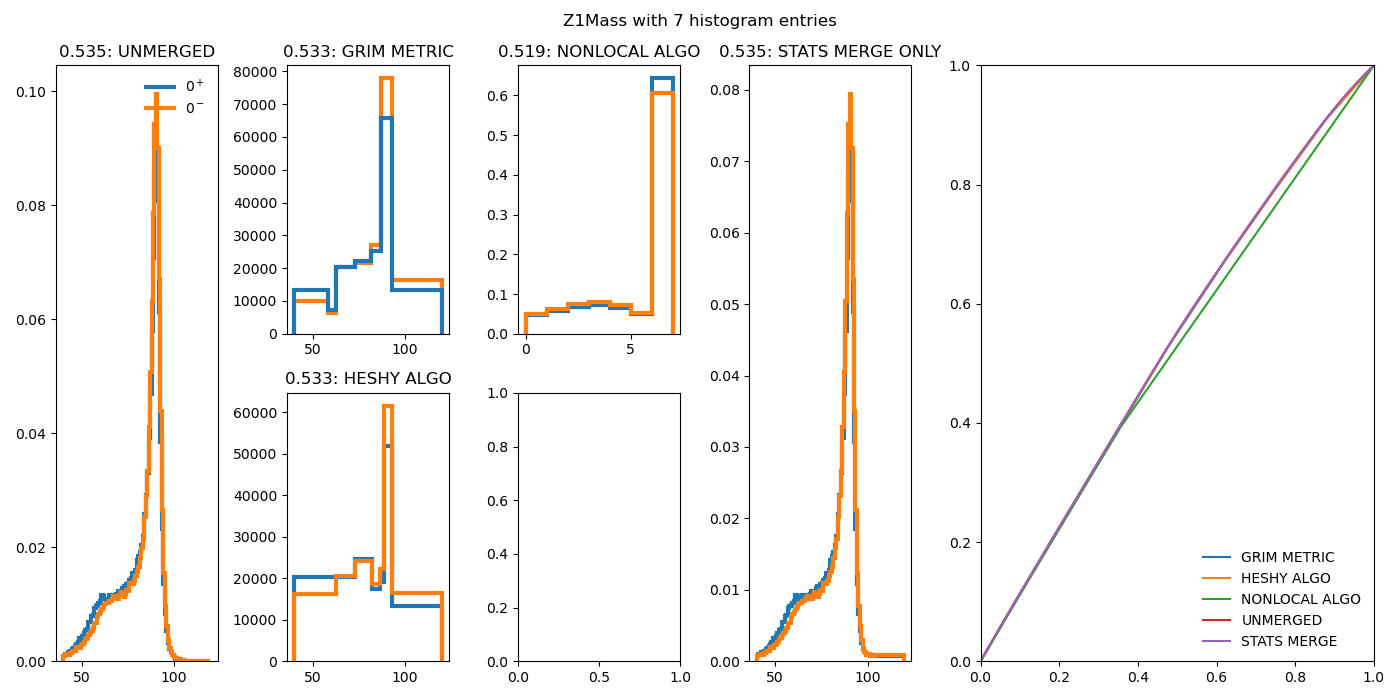
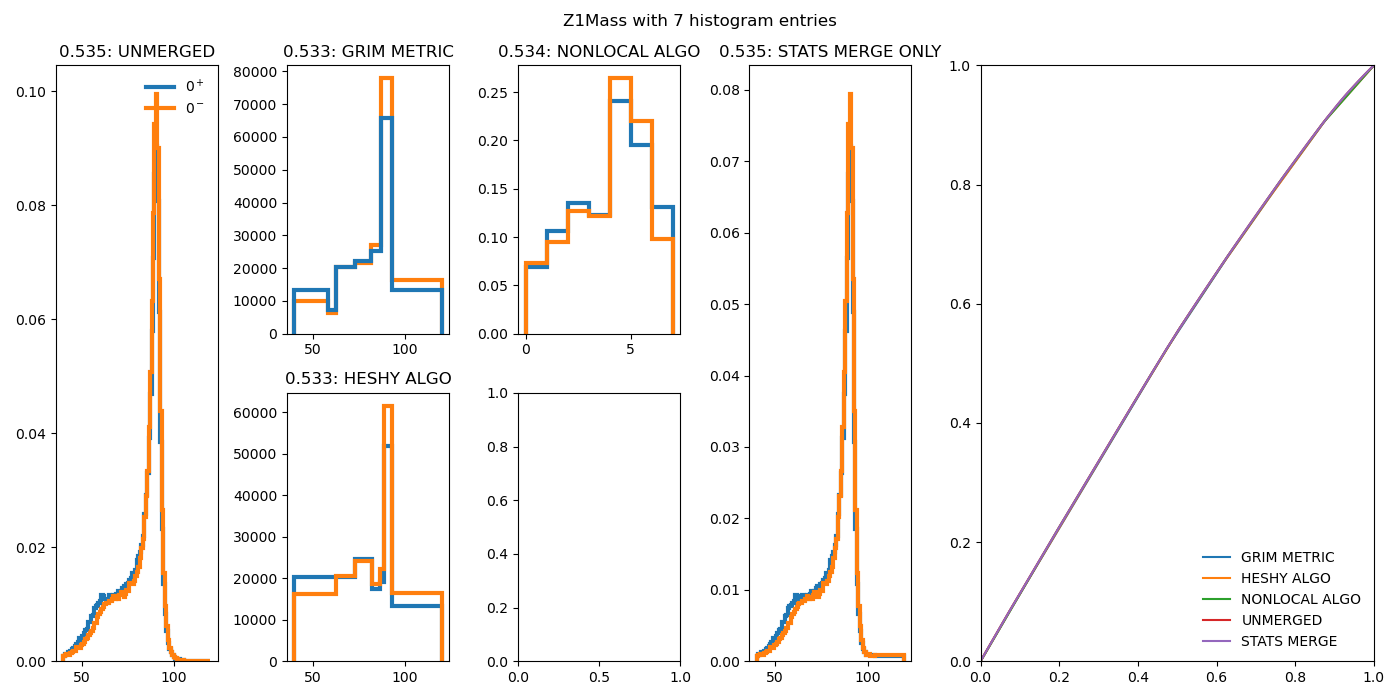
regular backup

diff --git a/brunelle_merger/brunelle_merger.py b/brunelle_merger/brunelle_merger.py
@@ -3,6 +3,7 @@ import matplotlib.pyplot as plt
 import mplhep as hep
 import matplotlib as mpl
 import histogram_helpers as h
+import tqdm
 
 # plt.style.use(hep.style.ROOT)
 # mpl.rcParams['axes.labelsize'] = 40
@@ -364,7 +365,6 @@ class Grim_Brunelle_with_standard_model(Grim_Brunelle_merger):
         else:
             return numerator/(2*denomenator)
 
-
 class Grim_Brunelle_nonlocal(Grim_Brunelle_merger):
     def __init__(self, bins, *counts, stats_check=True, subtraction_metric=True, weights=None) -> None:
         """This class is the base object for bin merging. 
@@ -453,6 +453,9 @@ class Grim_Brunelle_nonlocal(Grim_Brunelle_merger):
                 if track:
                     current_iteration_tracker[k] = tuple([n])
                 merged_counts[:,k] = self.counts_to_merge[:,n]
+                self.scores[:,k] = self.scores[:,n]
+                self.scores[k] = self.scores[n]
+                
                 k += 1
         
         if track:
@@ -460,6 +463,11 @@ class Grim_Brunelle_nonlocal(Grim_Brunelle_merger):
         self.things_to_recalculate = tuple([k])
         
         merged_counts[:,k] = self.counts_to_merge[:,i] + self.counts_to_merge[:,j] #shove everything into the final bin
+        
+        for wipe in range(k, len(self.scores)):
+            self.scores[wipe] = np.inf
+            self.scores[:,wipe] = np.inf
+            
         self.n_items -= 1
         
         self.counts_to_merge = merged_counts
@@ -484,14 +492,20 @@ class Grim_Brunelle_nonlocal(Grim_Brunelle_merger):
         # print("USING INDICES:", indices, "With BRUTE_FORCE=", brute_force)
         smallest_distance = (np.inf, None, None)
         for i in range(self.n_items):
-            for j in range(i):
-                
+            for j in self.things_to_recalculate:
                 if i == j:
-                    self.scores[i][j] == np.inf
+                    self.scores[i][j] = np.inf
+                    # print("setting??", self.scores[i][j])
+                    continue
                 
-                temp_dist = self.__MLM__(i, j)
-                if temp_dist < smallest_distance[0]:
-                    smallest_distance = (temp_dist, i, j)
+                self.scores[i][j] = self.__MLM__(i, j)
+                # if temp_dist < smallest_distance[0]:
+                    # smallest_distance = (temp_dist, i, j)
+        smallest_distance_index = np.unravel_index(self.scores.argmin(), self.scores.shape)
+        smallest_distance = self.scores[smallest_distance_index], *smallest_distance_index
+        
+        # print("DIST:", smallest_distance)
+        # print(self.scores)
         
         if not np.isfinite(smallest_distance[0]):
             raise ValueError("Distance function has produced nan/inf at some point with value" + str(smallest_distance[0]))
@@ -515,9 +529,13 @@ class Grim_Brunelle_nonlocal(Grim_Brunelle_merger):
         """
         
         # print("RUNNING NONLOCAL", self.n_items, target_bin_number)
+        # print("n items:", self.n_items)
+        pbar = tqdm.tqdm(total=self.n_items - target_bin_number)    
         while self.n_items > target_bin_number:
             distance, i, j = self.__closest_pair__()
             self.__merge__(i,j, track)
+            pbar.update(1)
+            # print()
     
         return self.counts_to_merge, np.array(range(self.n_items+1))
     
@@ -528,13 +546,15 @@ class Grim_Brunelle_nonlocal(Grim_Brunelle_merger):
         plt.close('all')
         centers = (self.post_stats_merge_bins[1:] + self.post_stats_merge_bins[:-1])/2
         
+        mapping = {}
         color_wheel = iter(plt.cm.rainbow(np.linspace(0, 1, self.n_items)))
         for bin_index in self.tracker[-1].keys():
             indices = self.__trace__(bin_index, len(self.tracker) - 1)
+            mapping[bin_index] = indices
             c = next(color_wheel)
             for index in indices:
                 plt.scatter(centers[index], self.merged_counts[0][index], color=c, marker='o', s=50)
-                plt.scatter(centers[index], self.merged_counts[1][index], color=c, marker='P', s=50)
+                plt.scatter(centers[index], self.merged_counts[1][index], color=c, marker='X', s=50)
         
         if xlabel == None:
             "Distribution Clustering"
@@ -545,7 +565,9 @@ class Grim_Brunelle_nonlocal(Grim_Brunelle_merger):
         plt.tight_layout()
         if fname:
             plt.savefig(fname + '.png')
-        plt.show()
+            plt.show()
+        plt.close()
+        return mapping
     
 class Grim_Brunelle_nonlocal_with_standard_model(Grim_Brunelle_nonlocal):
     def __init__(self, bins, *counts, stats_check=True, subtraction_metric=True, weights=None) -> None:

diff --git a/tester.py b/tester.py
@@ -1,5 +1,7 @@
 import numpy as np
+import matplotlib.colors as colors
 import matplotlib.pyplot as plt
+import matplotlib.patches
 import scipy.stats as sp
 import mplhep as hep
 import pickle
@@ -13,6 +15,7 @@ sys.path.append('brunelle_merger/')
 
 import brunelle_merger as bm
 import SUPER_ROC_Curves as ROC
+import histogram_helpers as h
 import multidimensionaldiscriminant.optimizeroc as optimizeroc #clone an instance of multidimensional roc in your area
 
 def earth_mover(counts_1, counts_2):
@@ -308,12 +311,77 @@ if __name__ == "__main__": #TEST DATA!!
         counts_ps[n], _ = np.histogram(ps_data[i], edges[n], density=True)
     
     
+    Z1Z2_counts_sm, *Z1Z2_edges = np.histogram2d(sm_data['Z1Mass'], sm_data['Z2Mass'], 10)
+    Z1Z2_counts_ps, *_ = np.histogram2d(ps_data['Z1Mass'], ps_data['Z2Mass'], Z1Z2_edges)
+    sm_unroll = h.ND_histogram(Z1Z2_counts_sm.copy(), Z1Z2_edges.copy())
+    sm_unroll.unroll()
     
-    for stat_check in [True, False]:
-        for subtraction_metric in [True]: #division metric WILL nan out
-            for n_bins in [5,7,10]:
-                run_test(stat_check, n_bins, subtraction_metric)
-                print()
+    ps_unroll = h.ND_histogram(Z1Z2_counts_ps.copy(), Z1Z2_edges.copy())
+    ps_unroll.unroll()
+    dim_bins = bm.Grim_Brunelle_nonlocal(sm_unroll.unrolled_bins, sm_unroll.unrolled_counts, ps_unroll.unrolled_counts, stats_check=False, subtraction_metric=True)
+    dim_bins.run(10, track=True)
+    mapping = dim_bins.visualize_changes()
+    # print(mapping)
+    # print(sm_unroll.unrolled_to_rolled_converter)
+    
+    mosaic = [
+        [0,0,'.','.','.'],
+        [1,1,3,3,2],
+        [1,1,3,3,2]
+    ]
+    
+    fig, ax = plt.subplot_mosaic(mosaic, constrained_layout=True, gridspec_kw={'wspace':0, 'hspace':0})
+    hep.hist2dplot(Z1Z2_counts_sm, Z1Z2_edges[0], Z1Z2_edges[1], lw=2, ax=ax[1], cbar=False, cmap='Greys', norm=colors.SymLogNorm(linthresh=0.01, linscale=0.01, vmin=Z1Z2_counts_sm.min(), vmax=Z1Z2_counts_sm.max()))
+    hep.hist2dplot(Z1Z2_counts_ps, Z1Z2_edges[0], Z1Z2_edges[1], lw=2, ax=ax[3], cbar=False, cmap='Greys', norm=colors.SymLogNorm(linthresh=0.01, linscale=0.01, vmin=Z1Z2_counts_ps.min(), vmax=Z1Z2_counts_ps.max()))
+    hep.histplot([counts_sm[0], counts_ps[0]], edges[0], lw=2, ax=ax[0])
+    hep.histplot([counts_sm[1], counts_ps[1]], edges[1], lw=2, ax=ax[2], orientation='horizontal')
+    ax[1].set_xlabel(r'$M_{Z_1}$', fontsize=40)
+    ax[1].set_ylabel(r'$M_{Z_2}$', fontsize=40)
+    ax[0].set_xticks([])
+    ax[2].set_yticks([])
+    fig.tight_layout()
+    plt.show()
+    
+    plt.close('all')
+    fig, ax = plt.subplot_mosaic(mosaic, constrained_layout=True, gridspec_kw={'wspace':0, 'hspace':0})
+    
+    Z1_centers, Z2_centers = sm_unroll.centers
+    color_wheel = iter(plt.cm.rainbow(np.linspace(0, 1, 10)))
+    for indices in mapping:
+        c = next(color_wheel)
+        for index in mapping[indices]:
+            x, y = sm_unroll.unrolled_to_rolled_converter[index]
+            # print(*(Z1_centers[x] - sm_unroll.diff[0], Z2_centers[y] - sm_unroll.diff[1]))
+            
+            rect = matplotlib.patches.Rectangle(
+                (Z1_centers[x] - sm_unroll.diff[0], Z2_centers[y] - sm_unroll.diff[1]),
+                sm_unroll.diff[0], sm_unroll.diff[1], color=c, zorder=np.inf)
+            
+            ax[0].scatter(Z1_centers[x], dim_bins.merged_counts[0][index], color=c, marker='o', s=50)
+            ax[0].scatter(Z1_centers[x], dim_bins.merged_counts[1][index], color=c, marker='X', s=50)
+            
+            ax[2].scatter(dim_bins.merged_counts[0][index], Z2_centers[y], color=c, marker='o', s=50)
+            ax[2].scatter(dim_bins.merged_counts[1][index], Z2_centers[y], color=c, marker='X', s=50)
+            ax[2].invert_yaxis()
+            
+            ax[1].add_patch(rect)
+            # plt.xlim()
+            
+            ax[1].scatter(Z1_centers[x], Z2_centers[y], color=c, marker='o', s=0)
+            ax[1].scatter(Z1_centers[x], Z2_centers[y], color=c, marker='X', s=0)
+    
+    ax[1].set_xlabel(r'$M_{Z_1}$', fontsize=40)
+    ax[1].set_ylabel(r'$M_{Z_2}$', fontsize=40)
+    ax[0].set_xticks([])
+    ax[2].set_yticks([])
+    fig.tight_layout()
+    plt.show()
+    
+    # for stat_check in [True, False]:
+    #     for subtraction_metric in [True]: #division metric WILL nan out
+    #         for n_bins in [5,7,10]:
+    #             run_test(stat_check, n_bins, subtraction_metric)
+    #             print()
     
     # nonlocal_bins = [None]*5
     # nonlocal_counts = [None]*5

diff --git a/brunelle_merger/histogram_helpers.py b/brunelle_merger/histogram_helpers.py
@@ -112,3 +112,78 @@ def merge_bins(target, bins, *counts, **kwargs):
         # print()
     return np.vstack(new_counts), np.array(new_bins)
 
+
+class ND_histogram(object):
+    def __init__(self, counts, bins) -> None:
+        self.rolled_counts = counts.copy()
+        self.rolled_bins = bins.copy()
+        self.centers = np.zeros((len(bins), counts.shape[1]))
+        self.diff = np.zeros(len(bins))
+        for n, edges_set in enumerate(bins):
+            centers = (edges_set[1:] + edges_set[:-1])/2
+            self.centers[n] = centers
+            self.diff[n] = np.diff(edges_set)[0]
+
+        
+        self.counts_dim = counts.shape
+        
+        self.unrolled_to_rolled_converter = {}
+        
+        self.unrolled_counts = None
+        self.unrolled_bins = None
+    
+    def unroll(self, bkg=False):
+        counts = self.rolled_counts.copy()
+        integral = np.sum(counts)
+        super_bin_count = 1
+        for b in self.rolled_bins:
+            super_bin_count *= len(b) - 1
+        
+        filler = integral/(10*super_bin_count)
+        one_D_counts = np.zeros(super_bin_count)
+        # print("size of output:", len(one_D_counts))
+        _, bins = np.histogram([], super_bin_count, [0, super_bin_count])
+        
+        indk = 0
+        for index, bin_count in np.ndenumerate(counts):
+            fillable_value = bin_count
+            if bin_count <= 0 and bkg:
+                fillable_value = filler
+            elif bin_count < 0 and not bkg:
+                fillable_value = 0
+            
+            one_D_counts[indk] = fillable_value
+            self.unrolled_to_rolled_converter[indk] = index
+            indk += 1
+        
+        self.unrolled_counts = one_D_counts.copy()
+        self.unrolled_bins = bins.copy()
+        
+        return one_D_counts, bins
+    
+
+
+
+def Unroll_ND_histogram(counts, *bins, bkg=False):
+    counts = np.array(counts)
+    integral = np.sum(counts)
+    super_bin_count = 1
+    for b in bins:
+        super_bin_count *= len(b)
+    
+    filler = integral/(10*super_bin_count)
+    one_D_counts = np.zeros(super_bin_count)
+    _, bins = np.histogram([], super_bin_count, [0, super_bin_count])
+    
+    indk = 0
+    for index, bin_count in np.ndenumerate(counts):
+        fillable_value = bin_count
+        if bin_count <= 0 and bkg:
+            fillable_value = filler
+        elif bin_count < 0 and not bkg:
+            fillable_value = 0
+        
+        one_D_counts[indk] = fillable_value
+        indk += 1
+    
+    return one_D_counts, bins

diff --git a/timing_test.py b/timing_test.py
@@ -1,0 +1,64 @@
+import timeit
+
+
+setup_code = """
+import sys
+import uproot
+import numpy as np
+sys.path.append('brunelle_merger/')
+import brunelle_merger as bm
+data = uproot.open('test_data/data.root')
+import multidimensionaldiscriminant.optimizeroc as optimizeroc
+
+branches = ['Z1Mass', 'Z2Mass', 'helphi', 'helcosthetaZ1', 'helcosthetaZ2']
+sm_data = data['sm'].arrays(branches, library='np')
+ps_data = data['ps'].arrays(branches, library='np')
+
+counts_sm = [None]*5
+counts_ps = [None]*5
+edges = [None]*5    
+
+ranges = [
+    None,
+    None,
+    [-3.14, 3.14],
+    [-1,1],
+    [-1,1]
+]
+
+
+for n, i in enumerate(branches):
+    counts_sm[n], edges[n] = np.histogram(sm_data[i], 100, range=ranges[n], density=True)
+    counts_ps[n], _ = np.histogram(ps_data[i], edges[n], density=True)
+
+x = counts_sm[0]
+xp = counts_ps[0]
+
+dim_bins = bm.Grim_Brunelle_merger(edges[0], x.copy(), xp.copy(), stats_check=False, subtraction_metric=True)
+dim_bins_nonlocal = bm.Grim_Brunelle_nonlocal(edges[0], x.copy(), xp.copy(), stats_check=False, subtraction_metric=True)
+
+
+hists = {
+        "0+": dim_bins.merged_counts.copy()[0],
+        "0-": dim_bins.merged_counts.copy()[1]
+        }
+rocareacoeffdict = {("0+", "0-"): 1}
+optimizer = optimizeroc.OptimizeRoc(hists, rocareacoeffdict, mergemultiplebins=True, smallchangetolerance=1e-5)
+"""
+
+local_main = """
+dim_bins.run(5)
+"""
+nonlocal_main="""
+dim_bins_nonlocal.run(5)
+"""
+heshy_main="""
+optimizer.run(resultfilename="output.pkl", rawfilename="output_raw.pkl")
+"""
+
+# exec(setup_code)
+
+print("Local:", timeit.timeit(stmt=local_main, setup=setup_code, number=10000))
+print("Non-Local:", timeit.timeit(stmt=nonlocal_main, setup=setup_code, number=10000))
+print("Heshy:", timeit.timeit(stmt=heshy_main, setup=setup_code, number=10000))
+
